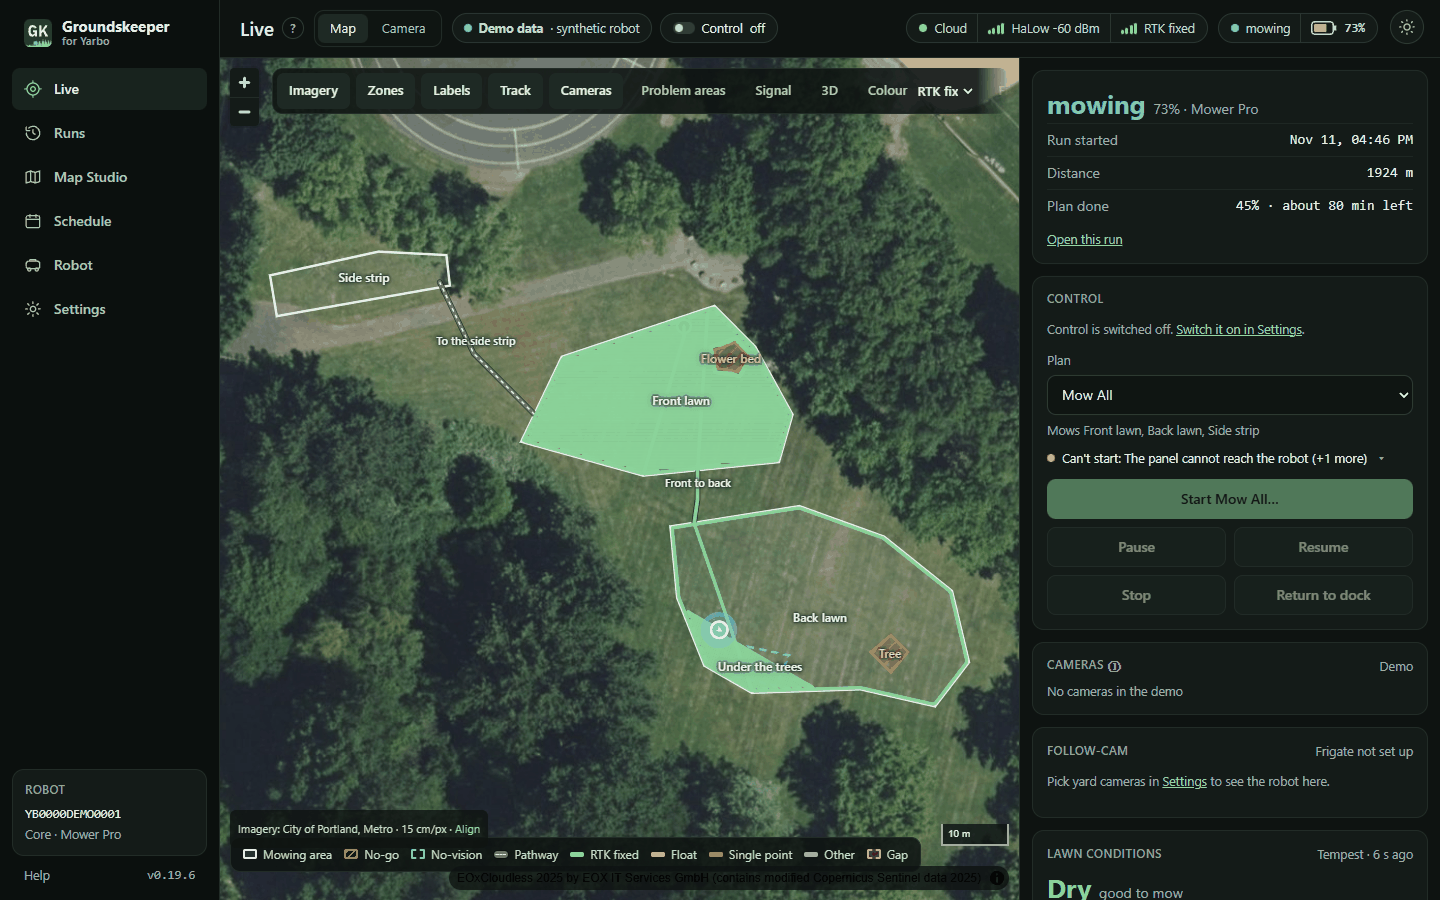
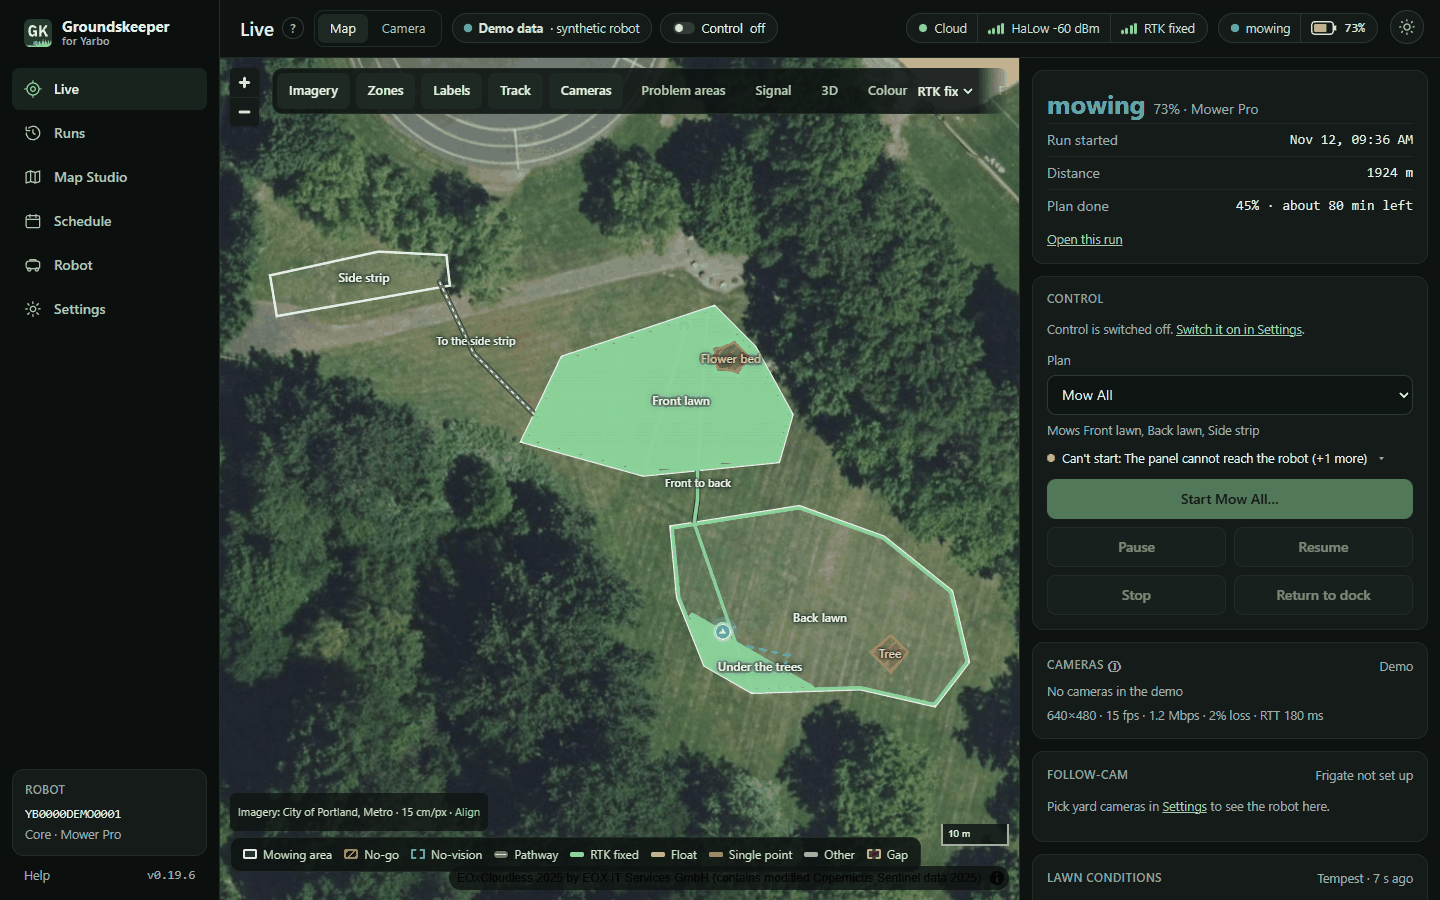
Cameras: a video stats line under the tile, read in the browser (#144)
## What and why

Closes #142. Adds one line under the Cameras tile's video that shows
what this browser is receiving, so a weak robot
uplink can be told from a slow browser:

`640×480 · 15 fps · 1.2 Mbps · 2% loss · RTT 180 ms`

- Refreshed every 2 s while the video plays; hidden when there are no
numbers yet.
- It says **weak link** (5% or more loss, frozen 10% of the time, or the
SDK rates the robot's upload poor) or
  **slow to draw** (frames arrive but this browser shows far fewer).
- Read from the Agora SDK's own local counters (`getRemoteVideoStats`,
`getRemoteNetworkQuality`, `getRTCStats`).
**Nothing is sent anywhere**, and only numbers are used, so no id,
token, channel or address can get onto the line.
- The demo shows a made-up line. The timer stops on every way the tile
stops (Close, hidden tab, page hide, leaving
  Live, connection lost, the robot stopping its video, a camera change).
- Not part of this: posting samples to the panel to map where the uplink
is weak.

Files: `web/cameras.js`, `web/style.css` (`.camstats`), tests in
`tests/cameras_flow.cjs` and
`tests/test_cameras_js.py`, `docs/user/live.md`, `CHANGELOG.md`, and the
`live` and `live-light` screenshots (the
tile is in them; regenerated from the demo, the other images are
unchanged).

We have run this on our own deployment, as a fork change first
(postmaxin/groundskeeper#53). It is independent of
#141 (keyboard focus on Live redraws), which touches the same file in
[…]

diff --git a/web/cameras.js b/web/cameras.js
@@ -34,12 +34,20 @@ const CAM_ROBOT_UID = 1;                           // the robot publishes as uid
 const CAM_SLOW_MS = 15000;                         // joined but no video yet: say why it may be
 const CAM_SETTINGS_MS = 20000;                     // how long a read of the video setting is trusted
 const CAM_SDK_TIMEOUT_MS = 20000;                  // a script load that hangs gives up, so the next try loads again
+const CAM_STATS_MS = 2000;                         // how often the stats line under the video is refreshed
 const CAM_BEAT_MS = 4000;                          // the official app keeps the robot awake about this often while open
 const CAM_JOIN_TIMEOUT_MS = 30000;                 // a join that never settles gives up, so the swap cannot linger
 // After leaving a channel the tile was watching, wait this long before camera-on and the next join: the robot stops
 // its video a moment after the last viewer leaves, and a camera-on sent straight away was lost to that (a camera
 // change then waited for video for good; with 3 s it played within seconds).
 const CAM_REJOIN_GAP_MS = 3000;
+// "Weak link" thresholds, on the SDK's own numbers (4.24.9): packetLossRate and freezeRate are ratios 0..1, and the
+// network quality is 0 (unknown) to 6 (down), where 4 is "poor". getRemoteNetworkQuality()[uid] describes that remote
+// user's own connection, so for the robot its uplink is the video's source link; its downlink is irrelevant to viewing.
+const CAM_WEAK_LOSS = 0.05;                        // 5% of the robot's packets lost
+const CAM_WEAK_FREEZE = 0.1;                       // frozen for 10% of the time
+const CAM_WEAK_QUALITY = 4;                        // the robot's uplink network quality "poor" or worse
+const CAM_SLOW_DRAW = 0.7;                         // drawn frames under 70% of received ones: the browser, not the link
 const CAM_CONTROL_OFF_HINT = "Control is off.";                // short on screen; CAM_HELP says the rest
 const CAM_ENDED = "Stopped. Open to watch again.";             // the panel's time limit, or the robot went offline
 // STOPGAP (AgoraIO/agora-rtc-web#15). The Web SDK wraps the stream's secret with a built-in 1024-bit RSA key, which
@@ -60,7 +68,8 @@ const CAM_SDK_OFF = [
 ];
 
 const cams = { open: false, camera: savedCamera(), phase: "closed", message: "", hint: "", client: null, ticket: 0,
-               slowTimer: null, beatTimer: null, controlOff: false, leaving: Promise.resolve(), settings: null,
+               slowTimer: null, beatTimer: null, statsTimer: null, stats: "", statsWeak: false, statsEl: null,
+               controlOff: false, leaving: Promise.resolve(), settings: null,
                settingsAt: 0, card: null, stage: null, sdk: null, subscribed: 0, leftAt: 0 };
 
 // The hints on screen are short; what each one means is its tooltip (and docs/user/live.md).
@@ -104,6 +113,10 @@ async function camerasCard(s) {
   if (!cams.card) {
     cams.stage = h("div", { class: "camsstage", role: "img", "aria-label": "Live view from the robot's camera" });
     cams.card = h("div", { class: "card camscard" });
+    cams.statsEl = h("p", { class: "small muted camstats", style: "margin:6px 0 0",
+      title: "Measured in this browser from the video library's own counters. Nothing is sent anywhere." });
+    const demo = CAM_DEMO_STATS;
+    camerasStatsShow(cams.demo ? camerasStatsLine(demo.video, demo.rtc, demo.quality) : { text: "", weak: false });
   }
   camerasDraw();
   return cams.card;
@@ -123,9 +136,10 @@ function camerasDraw() {
           "through Yarbo's cloud and Agora's network, one at a time, and only while this is open." }, "ⓘ")),
       cams.demo ? h("span", { class: "small muted" }, "Demo")
                 : h("span", { class: "small", style: `color:${colour}` }, dot(colour), " ", label)),
-    cams.demo ? h("p", { class: "muted small", style: "margin:6px 0 0",
-                         title: "The demo robot has no cameras. A real robot shows its video here." },
-                  "No cameras in the demo")
+    cams.demo ? [h("p", { class: "muted small", style: "margin:6px 0 0",
+                          title: "The demo robot has no cameras. A real robot shows its video here." },
+                   "No cameras in the demo"),
+                 cams.statsEl]
     : cams.open ? [
       h("div", { class: "camchips", role: "group", "aria-label": "Robot camera" },
         CAM_CHOICES.map(([k, name]) => h("button", { type: "button", class: `btn slim${cams.camera === k ? " on" : ""}`,
@@ -134,6 +148,7 @@ function camerasDraw() {
         h("button", { type: "button", class: "btn slim", title: "Stop the video and leave the channel",
           onclick: () => camerasStop() }, "Close")),
       cams.stage,
+      cams.statsEl,
       cams.message ? h("p", { class: "small", style: `margin:6px 0 0;color:${colour}`, role: "status" },
                        cams.message) : null,
       cams.hint ? h("p", { class: "muted small", style: "margin:4px 0 0", title: CAM_HELP[cams.hint] || null },
@@ -145,6 +160,70 @@ function camerasDraw() {
         h("button", { type: "button", class: "btn slim", onclick: () => camerasOpen(),
           title: "Switch the robot's cameras on and show one here. Needs Control on." }, "Open")),
       cams.message ? h("p", { class: "muted small", style: "margin:6px 0 0", role: "status" }, cams.message) : null]);
+}
+
+// Made-up numbers for the demo, which never loads the SDK: it shows what the line looks like on a real robot.
+const CAM_DEMO_STATS = { video: { receiveResolutionWidth: 640, receiveResolutionHeight: 480, renderFrameRate: 15,
+                                  receiveFrameRate: 15, receiveBitrate: 1234000, packetLossRate: 0.02, freezeRate: 0,
+                                  totalFreezeTime: 0, end2EndDelay: 0 },
+                         rtc: { RTT: 180 }, quality: { uplinkNetworkQuality: 2 } };
+
+// The line under the video, from the SDK's local counters (read by camerasStatsStart). Returns { text, weak }; text
+// is "" when there are no numbers yet. Only numbers are used: no ids, names, tokens or addresses can get in.
+function camerasStatsLine(video, rtc, quality) {
+  const num = (v) => (typeof v === "number" && Number.isFinite(v) ? v : 0);
+  const v = video || {};
+  const w = num(v.receiveResolutionWidth), ht = num(v.receiveResolutionHeight);
+  const bps = num(v.receiveBitrate), loss = num(v.packetLossRate);
+  const freezeRate = num(v.freezeRate), froze = num(v.totalFreezeTime);
+  const received = num(v.receiveFrameRate);
+  // A real 0 stays 0: a stalled renderer is not masked by the receive rate. Only a missing counter falls back.
+  const drawn = typeof v.renderFrameRate === "number" && Number.isFinite(v.renderFrameRate)
+    ? v.renderFrameRate : received;
+  const rtt = num(rtc && rtc.RTT), delay = num(v.end2EndDelay);
+  if (!w && !bps && !drawn) return { text: "", weak: false };      // nothing received yet
+  const weak = loss >= CAM_WEAK_LOSS || freezeRate >= CAM_WEAK_FREEZE
+    || num(quality && quality.uplinkNetworkQuality) >= CAM_WEAK_QUALITY;
+  const slow = !weak && received >= 5 && drawn < received * CAM_SLOW_DRAW;
+  const pct = loss * 100;
+  const parts = [
+    w && ht ? `${Math.round(w)}×${Math.round(ht)}` : "",
+    `${Math.round(drawn)} fps`,
+    bps >= 1e6 ? `${(bps / 1e6).toFixed(1)} Mbps` : `${Math.round(bps / 1e3)} kbps`,
+    pct > 0 && pct < 1 ? "<1% loss" : `${Math.round(pct)}% loss`,
+    rtt > 0 ? `RTT ${Math.round(rtt)} ms` : "",
+    delay > 0 ? `delay ${Math.round(delay)} ms` : "",
+    froze >= 1 ? `froze ${Math.round(froze)} s` : "",
+    // weak link: the robot's side or the network; slow to draw: this browser
+    weak ? "weak link" : slow ? "slow to draw" : ""];
+  return { text: parts.filter(Boolean).join(" · "), weak };
+}
+
+// Puts the line on the tile. It updates the one paragraph in place (no redraw), so the playing video is not touched.
+function camerasStatsShow({ text, weak }) {
+  cams.stats = text;
+  cams.statsWeak = weak;
+  if (!cams.statsEl) return;
+  cams.statsEl.textContent = text;
+  cams.statsEl.hidden = !text;
+  cams.statsEl.className = `small muted camstats${weak ? " weak" : ""}`;
+}
+
+const camerasStatsClear = () => camerasStatsShow({ text: "", weak: false });
+
+// Reads the SDK's local counters for the robot, every CAM_STATS_MS while its video plays. Nothing is sent anywhere. A
+// read that throws shows nothing and logs nothing.
+function camerasStatsStart(client, ticket) {
+  clearInterval(cams.statsTimer);
+  const read = () => {
+    if (ticket !== cams.ticket || !cams.open || cams.client !== client) return;
+    try {
+      const video = (client.getRemoteVideoStats() || {})[CAM_ROBOT_UID];
+      const quality = (client.getRemoteNetworkQuality() || {})[CAM_ROBOT_UID];
+      camerasStatsShow(camerasStatsLine(video, client.getRTCStats(), quality));
+    } catch { camerasStatsClear(); }
+  };
+  cams.statsTimer = setInterval(read, CAM_STATS_MS);
 }
 
 function camerasSet(phase, message, hint) {
@@ -180,6 +259,9 @@ function camerasLeave() {
   clearTimeout(cams.slowTimer);
   clearInterval(cams.beatTimer);                    // no more keep-awake beats, on every way of stopping
   cams.beatTimer = null;
+  clearInterval(cams.statsTimer);                   // and no more stats reads
+  cams.statsTimer = null;
+  camerasStatsClear();
   cams.controlOff = false;
   if (camSwapRemove) camSwapRemove();               // the secret swap lives as long as the client
   const client = cams.client;
@@ -524,6 +606,9 @@ function camerasListen(client, ticket) {
   client.on("user-unpublished", (user, mediaType) => {
     if (live() && Number(user.uid) === CAM_ROBOT_UID && mediaType === "video") {   // not the robot's audio stopping
       cams.subscribed = 0;                        // a later user-published subscribes again
+      clearInterval(cams.statsTimer);
+      cams.statsTimer = null;
+      camerasStatsClear();
       if (cams.stage) cams.stage.replaceChildren();
       camerasSet("waiting", "The robot stopped sending video.", "Cameras off, or asleep.");
     }
@@ -551,6 +636,7 @@ async function camerasPlay(client, user, mediaType, ticket) {
   if (ticket !== cams.ticket || !cams.open || !user.videoTrack) return;
   clearTimeout(cams.slowTimer);
   user.videoTrack.play(cams.stage, { fit: "contain" });
+  camerasStatsStart(client, ticket);
   camerasSet("playing", "");
 }
 

diff --git a/web/style.css b/web/style.css
@@ -282,6 +282,8 @@ a { color: var(--link); }
 .camchips { display: flex; flex-wrap: wrap; gap: 6px; }
 /* Live's Cameras tile: the robot's own cameras. The stage keeps a 16:9 box whatever the video does. */
 .camscard .camchips { margin-top: 8px; }
+.camstats { font-variant-numeric: tabular-nums; }
+.camstats.weak { color: var(--warn); }
 .camsstage {
   margin-top: 8px; aspect-ratio: 16 / 9; width: 100%; border-radius: 8px; overflow: hidden; background: var(--map-ink);
 }

diff --git a/tests/test_cameras_js.py b/tests/test_cameras_js.py
@@ -369,7 +369,8 @@ def test_when_the_panel_ends_the_window_the_tile_closes_says_so_and_beats_no_mor
 @needs_node
 def test_changing_camera_restarts_the_beats_without_a_second_timer():
     seg = segment(run_flow(), "beats-pick", beats=True)
-    assert [c[0] for c in seg if c[0] in BEAT_CALLS] == ["clear-interval", "interval", "beat"]
+    # the second clear is the stats timer (#142), playing before the pick
+    assert [c[0] for c in seg if c[0] in BEAT_CALLS] == ["clear-interval", "clear-interval", "interval", "beat"]
     assert ["beat", '{"start":true}'] in seg                                    # picking a camera is a press too
     assert ["intervals", 1] in seg
 
@@ -567,3 +568,84 @@ def test_the_tile_joins_as_host_but_never_publishes_anything():
                  "createCustomAudioTrack", "createCustomVideoTrack", "createBufferSourceAudioTrack", "getUserMedia"):
         assert call not in CODE, call
 
+
+# --- Video stats under the tile (#142): the SDK's own local counters, read here, sent nowhere. ---
+
+def stats_lines(calls):
+    return {c[1]: (c[2], c[3]) for c in calls if c[0] == "stats"}
+
+
+@needs_node
+def test_the_stats_line_formats_the_sdks_counters():
+    lines = stats_lines(run_flow())
+    assert lines["healthy"] == ("640×480 · 15 fps · 1.2 Mbps · 2% loss · RTT 180 ms", False)
+    assert lines["delay"][0].endswith("RTT 180 ms · delay 320 ms")
+    assert lines["kbps"][0] == "640×480 · 15 fps · 640 kbps · <1% loss · RTT 180 ms"
+    assert lines["no-rtt"][0] == "640×480 · 15 fps · 1.2 Mbps · 2% loss"
+
+
+@needs_node
+def test_a_weak_link_is_said_when_loss_freezes_or_the_quality_is_poor():
+    lines = stats_lines(run_flow())
+    assert lines["loss"] == ("640×480 · 15 fps · 1.2 Mbps · 8% loss · RTT 180 ms · weak link", True)
+    assert lines["freeze"] == (
+        "640×480 · 15 fps · 1.2 Mbps · 2% loss · RTT 180 ms · froze 6 s · weak link", True)
+    assert lines["quality"] == ("640×480 · 15 fps · 1.2 Mbps · 2% loss · RTT 180 ms · weak link", True)
+    # only the robot's uplink counts
+    assert lines["downlink-ignored"] == ("640×480 · 15 fps · 1.2 Mbps · 2% loss · RTT 180 ms", False)
+    # 0 means unknown, not poor
+    assert lines["quality-unknown"][1] is False and "weak" not in lines["quality-unknown"][0]
+
+
+@needs_node
+def test_a_slow_browser_is_told_apart_from_a_weak_link():
+    text, weak = stats_lines(run_flow())["slow-browser"]
+    assert text.endswith("slow to draw") and "weak link" not in text and weak is False
+    stalled = stats_lines(run_flow())["render-stalled"]
+    # a stalled renderer is not masked
+    assert stalled == ("640×480 · 0 fps · 1.2 Mbps · 2% loss · RTT 180 ms · slow to draw", False)
+    # no render counter: use the receive rate
+    assert stats_lines(run_flow())["render-missing"][0].startswith("640×480 · 12 fps")
+
+
+@needs_node
+def test_no_numbers_means_no_line_and_a_throwing_sdk_is_quiet():
+    calls = run_flow()
+    assert next(c for c in calls if c[0] == "stats-before") == ["stats-before", ""]
+    lines = stats_lines(calls)
+    for name in ("nothing-yet", "no-user", "bad-numbers", "throws"):
+        assert lines[name] == ("", False), name
+
+
+@needs_node
+def test_the_stats_line_never_carries_a_secret_channel_or_uid():
+    calls = run_flow()
+    assert next(c for c in calls if c[0] == "stats-line-secret-free")[1] is True
+    assert not re.search(r"console\.", CODE)
+
+
+@needs_node
+def test_the_stats_timer_stops_on_every_way_of_stopping():
+    stopped = [c for c in run_flow() if c[0] == "stats-stopped"]
+    assert [c[1] for c in stopped] == [
+        "close", "hidden", "pagehide", "leave-live", "connection-lost", "robot-stops-video"]
+    for _, name, shown, after, reads, timers in stopped:
+        assert shown.startswith("640×480") and after == "" and reads == 0, name
+        # robot-stops-video stays open: the keep-awake beat goes on
+        assert timers == (1 if name == "robot-stops-video" else 0), name
+
+
+@needs_node
+def test_changing_camera_clears_the_line_and_never_doubles_the_timer():
+    calls = run_flow()
+    # only the keep-awake beat is left
+    assert next(c for c in calls if c[0] == "stats-after-pick") == ["stats-after-pick", "", 1]
+    # beat + one stats timer
+    assert next(c for c in calls if c[0] == "stats-timers") == ["stats-timers", 2]
+
+
+def test_the_stats_source_reads_only_local_sdk_counters_every_two_seconds():
+    assert "CAM_STATS_MS = 2000" in CODE
+    for call in ("getRemoteVideoStats", "getRTCStats", "getRemoteNetworkQuality"):
+        assert CODE.count(f".{call}(") == 1
+    assert re.search(r"function camerasLeave\(\) \{[^}]*clearInterval\(cams\.statsTimer\)", CODE, re.S)

diff --git a/docs/user/live.md b/docs/user/live.md
@@ -93,7 +93,12 @@ are pink, edge passes violet.
     message and access-point request itself, on the SDK's own connections to Agora only, unwrapped inside TLS to
     Agora, whose servers decrypt the stream for your browser anyway. A stopgap until Agora fixes their SDK
     (AgoraIO/agora-rtc-web#15).
-  - The demo shows a placeholder: "No cameras in the demo".
+  - Under the video, one line shows what this browser is receiving, refreshed every 2 seconds, for example
+    `640×480 · 15 fps · 1.2 Mbps · 2% loss · RTT 180 ms`. It is read from the video library's own counters in your
+    browser and sent nowhere. **weak link** means 5% or more of the packets were lost, the picture froze for 10% of
+    the time, or the library rates the robot's upload poor: look at the robot's signal (HaLow, 4G) first. **slow to
+    draw** means frames arrive but this browser shows far fewer: try another tab or device.
+  - The demo shows a placeholder, "No cameras in the demo", with a made-up example line.
   - It has played the back camera during a run while the Yarbo app was also open. **Known limitations**, from one
     robot so far:
     - Waking a docked, sleeping robot is not shown to work: with the Yarbo app closed, no video arrived within about

diff --git a/CHANGELOG.md b/CHANGELOG.md
@@ -7,6 +7,11 @@ robot card. Before 0.9.0 the panel had no version numbers; those changes are lis
 
 ### Added
 
+- **A stats line under the Cameras tile's video** (#142), refreshed every 2 seconds while it plays, for example
+  `640×480 · 15 fps · 1.2 Mbps · 2% loss · RTT 180 ms`. It comes from the video library's own counters in your
+  browser and nothing is sent anywhere. It says **weak link** when loss is 5% or more, the picture froze for 10% of
+  the time or the library rates the robot's upload poor, and **slow to draw** when this browser shows far fewer
+  frames than arrive. The demo shows a made-up line.
 - **Prometheus metrics** (2 of 3 for #95): `GET /api/metrics` in the Prometheus text format, **off** until
   Settings → Access → **Metrics** is switched on, scraped with a metrics-only API token. `yarbo_*` for the robot's
   values (battery, RTK, wheels, signal, plan progress, errors) and `groundskeeper_*` for the panel's own state (cloud
